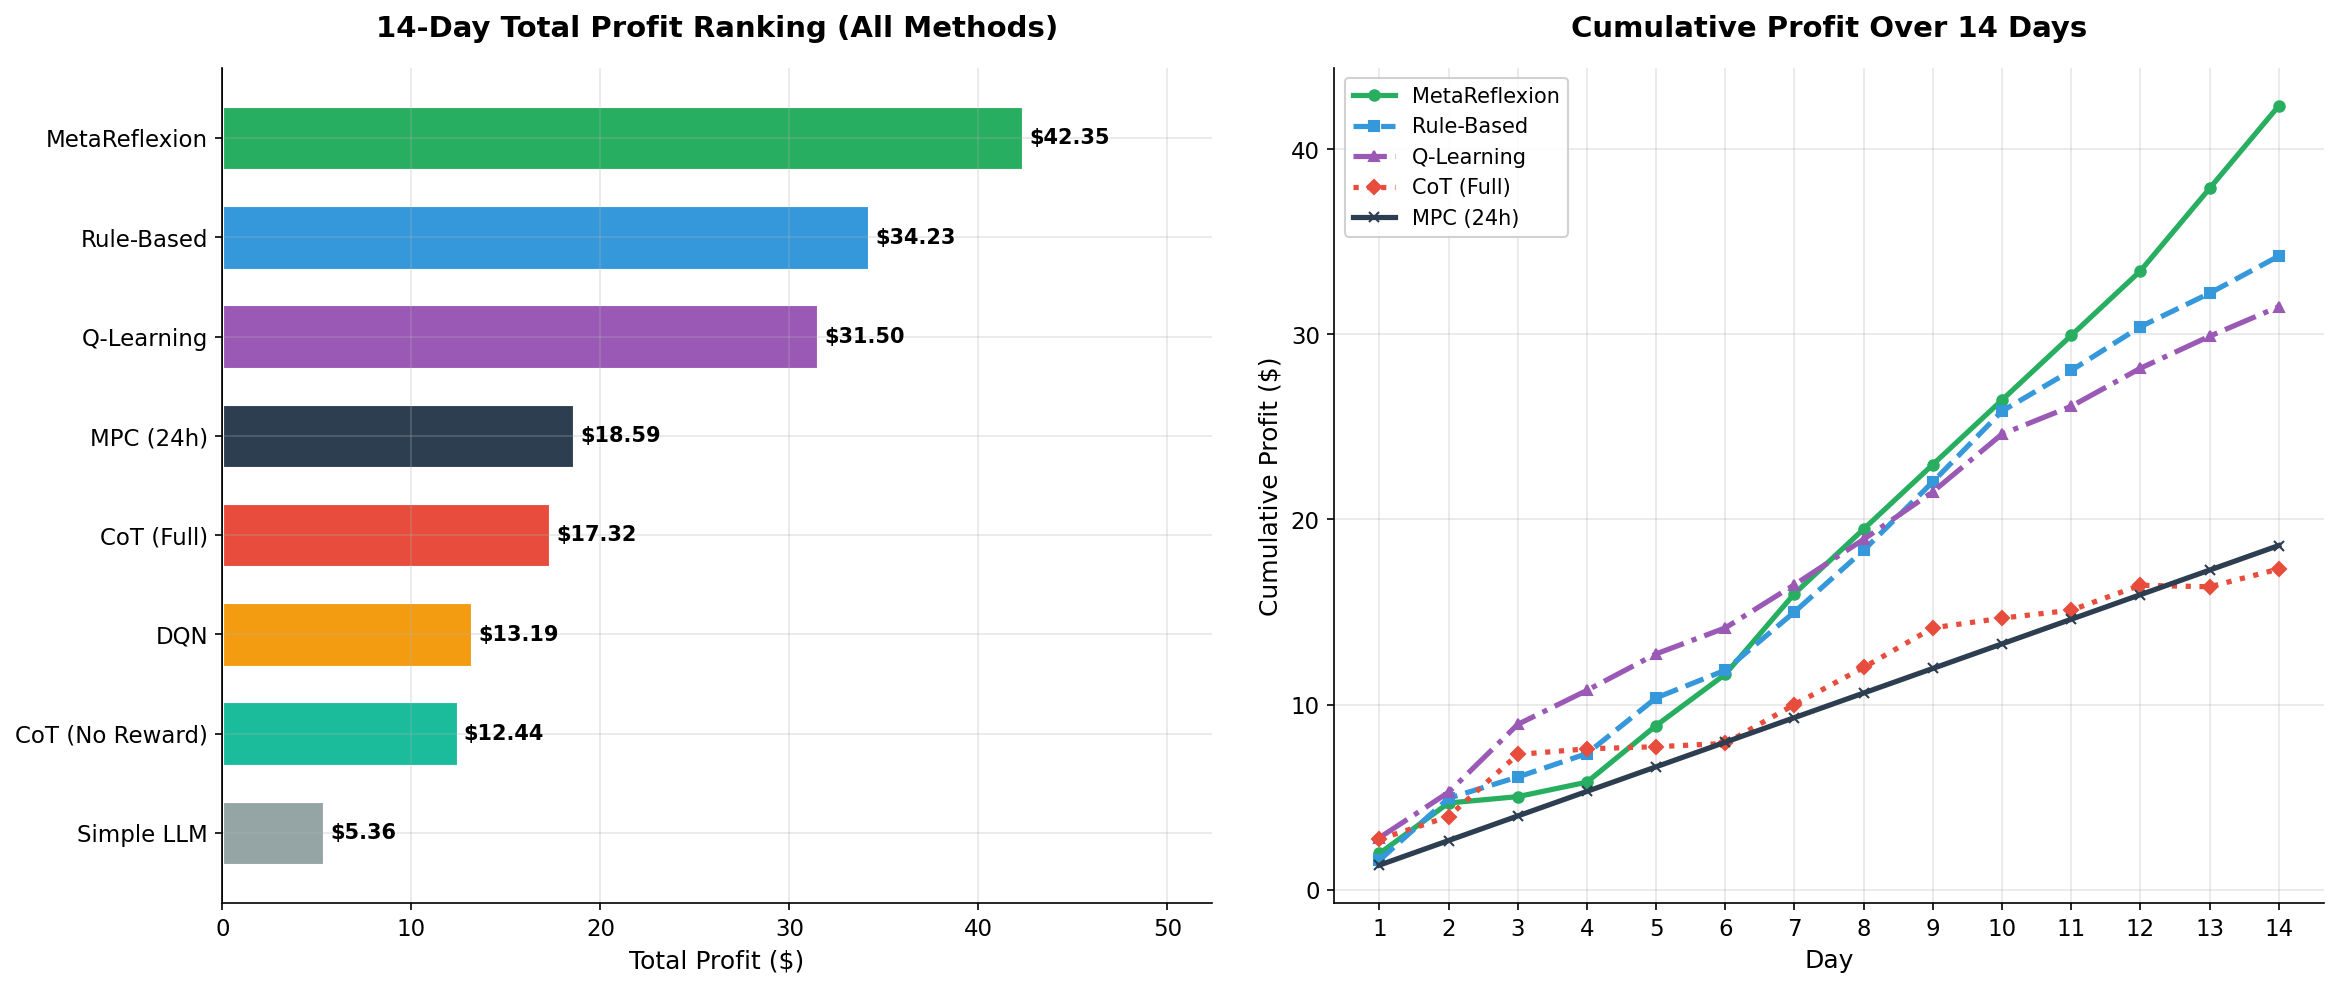
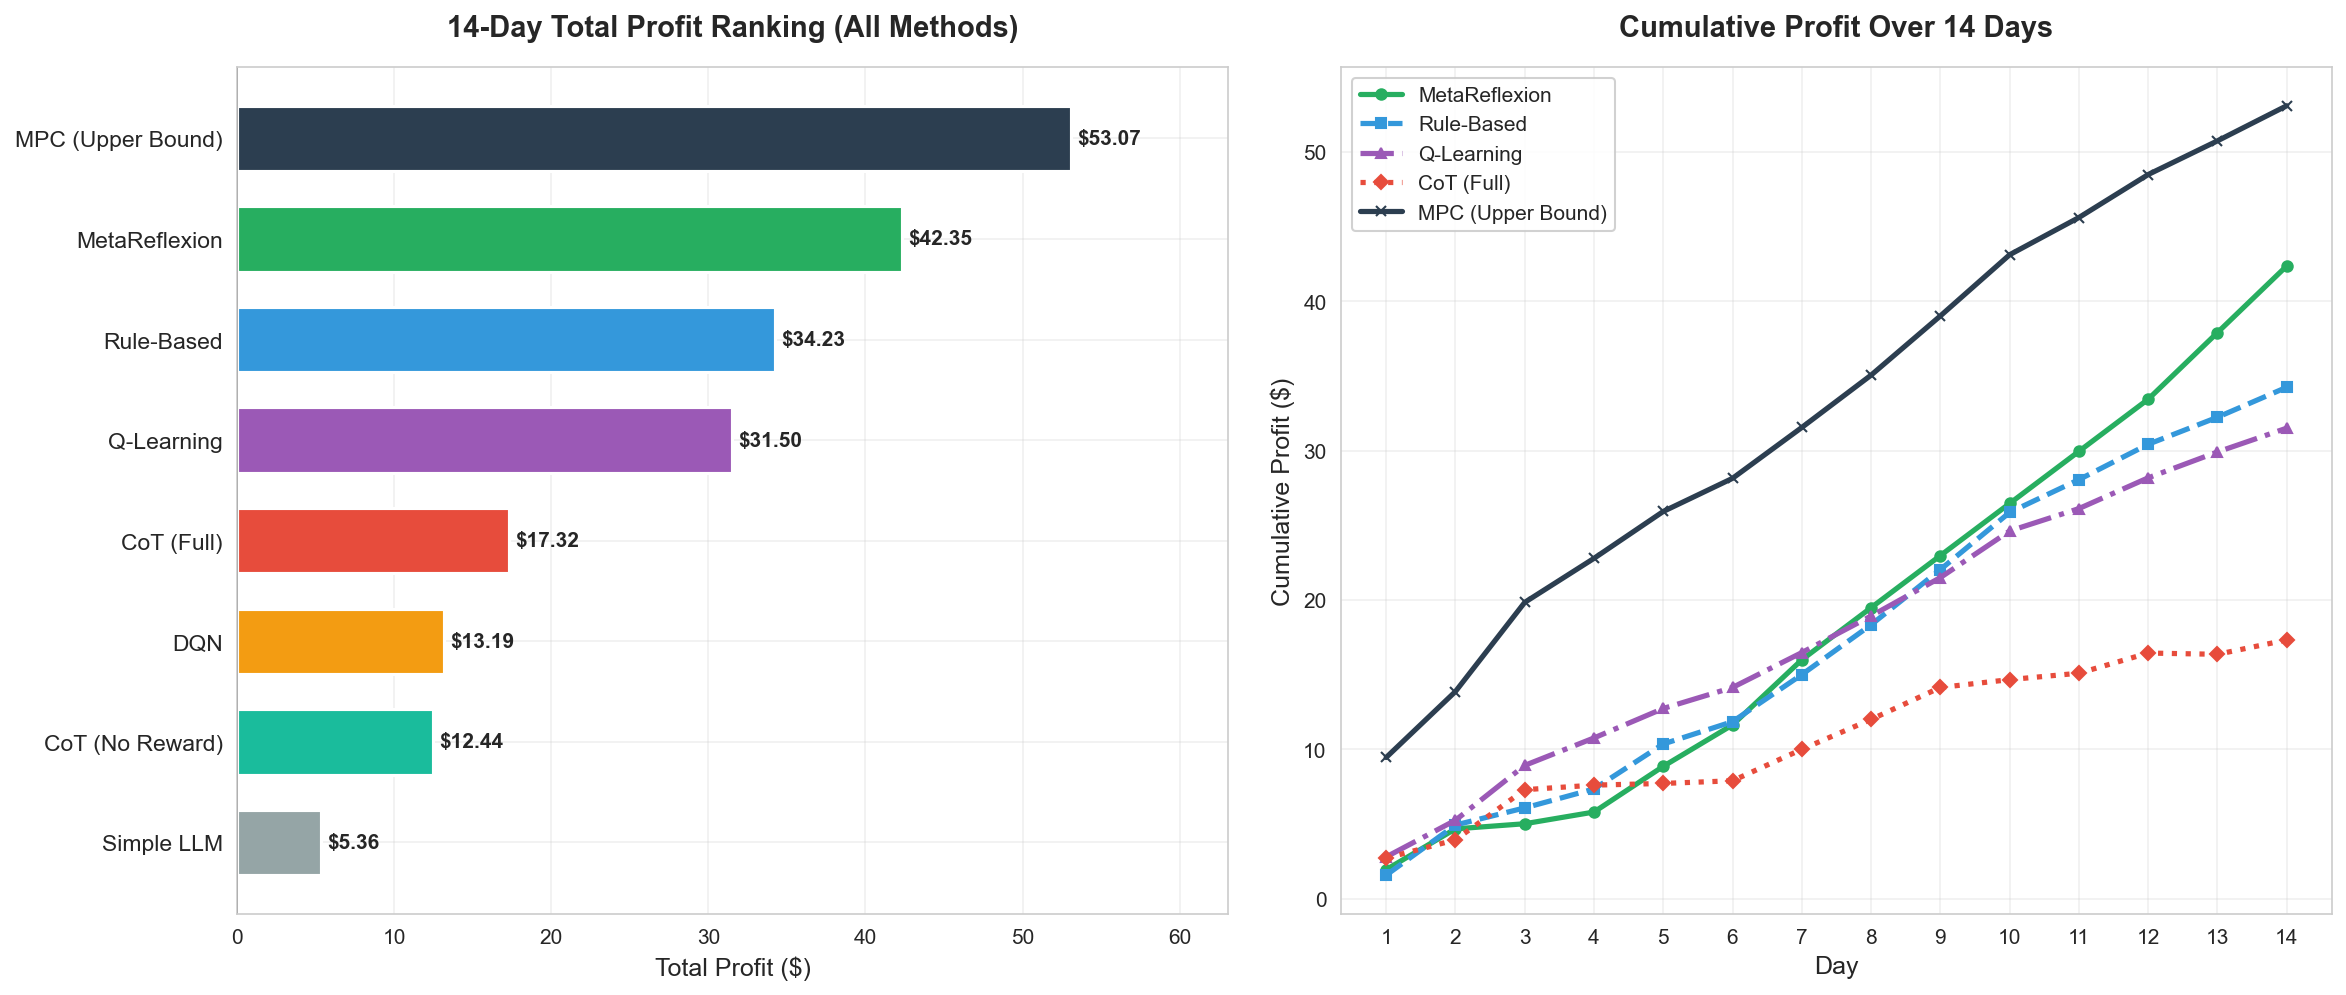
update results

diff --git a/scripts/generate_figures.py b/scripts/generate_figures.py
@@ -15,6 +15,8 @@ import numpy as np
 import matplotlib.pyplot as plt
 from pathlib import Path
 from typing import Dict, List, Tuple
+import argparse
+import sys
 
 # ============================================================
 # 全局配置
@@ -40,7 +42,7 @@ COLORS = {
     'CoT (Full)': '#e74c3c',          # 红色
     'CoT (No Reward)': '#1abc9c',     # 青色
     'Simple LLM': '#95a5a6',          # 灰色 - 最差
-    'MPC (24h)': '#2c3e50',           # 深灰色 - 理论上界
+    'MPC (Upper Bound)': '#2c3e50',   # 深灰色 - 理论上界
 }
 
 ACTION_COLORS = {
@@ -55,8 +57,147 @@ OUTPUT_DIR = PROJECT_ROOT / "outputs" / "14days_results"
 # 所有需要统计的方法 (不含 No CoT)
 ALL_METHODS = [
     "MetaReflexion", "Rule-Based", "Q-Learning", "DQN", 
-    "CoT (Full)", "CoT (No Reward)", "Simple LLM", "MPC (24h)"
+    "CoT (Full)", "CoT (No Reward)", "Simple LLM", "MPC (Upper Bound)"
 ]
+
+def _compute_mpc_upper_bound(days: int = 14) -> Dict:
+    """
+    Compute a true theoretical upper bound for the current environment by solving
+    a full-horizon linear program consistent with the environment reward:
+      reward = avoided_cost + export_revenue - charge_cost
+
+    This is an offline optimal control problem assuming perfect future knowledge.
+    """
+    try:
+        import yaml
+        import pandas as pd
+        from scipy.optimize import linprog
+    except Exception as e:  # pragma: no cover
+        raise RuntimeError(
+            "Missing dependencies for MPC upper bound. "
+            "Install `pyyaml`, `pandas`, and `scipy` in the runtime env."
+        ) from e
+
+    sys.path.insert(0, str(PROJECT_ROOT))
+    from src.env import BatteryEnvConfig, compute_load_kwh, compute_prices
+    from src.utils import load_market_data
+
+    cfg_path = PROJECT_ROOT / "configs" / "default.yaml"
+    cfg = yaml.safe_load(cfg_path.read_text(encoding="utf-8")) if cfg_path.exists() else {}
+
+    battery_cfg = cfg.get("battery", {})
+    max_power = float(battery_cfg.get("max_power_kw", 5.0))
+    env_cfg = BatteryEnvConfig(
+        capacity_kwh=float(battery_cfg.get("capacity_kwh", 13.5)),
+        max_charge_kw=max_power,
+        max_discharge_kw=max_power,
+        roundtrip_efficiency=float(battery_cfg.get("efficiency", 0.9)),
+        min_soc=float(battery_cfg.get("min_soc", 0.10)),
+        max_soc=float(battery_cfg.get("max_soc", 0.95)),
+        allow_export=True,
+        allow_grid_charge=True,
+        action_mode="discrete",
+    )
+    initial_soc = float(battery_cfg.get("initial_soc", 0.5))
+
+    data_cfg = cfg.get("data", {})
+    data_path = PROJECT_ROOT / str(data_cfg.get("path", "data/caiso_enhanced_data.csv"))
+    df = load_market_data(data_path).head(days * 24).copy()
+    T = len(df)
+
+    buy = np.zeros(T)
+    sell = np.zeros(T)
+    load = np.zeros(T)
+    for t in range(T):
+        row = df.iloc[t]
+        hour = int(pd.to_datetime(row["timestamp"]).hour)
+        _base, buy_t, sell_t = compute_prices(row=row, cfg=env_cfg)
+        buy[t] = buy_t
+        sell[t] = sell_t
+        load[t] = compute_load_kwh(row=row, hour=hour, cfg=env_cfg)
+
+    cap = env_cfg.capacity_kwh
+    eff_c = env_cfg.eff_charge
+    eff_d = env_cfg.eff_discharge
+
+    # Variables layout:
+    # [c_store[0:T], d_batt[0:T], d_load[0:T], d_grid[0:T], soc[0:T+1]]
+    idx_c = 0
+    idx_d = idx_c + T
+    idx_dl = idx_d + T
+    idx_dg = idx_dl + T
+    idx_soc = idx_dg + T
+    n = idx_soc + (T + 1)
+
+    # Objective (linprog minimizes): minimize buy*c_store/eff_c - buy*d_load - sell*d_grid
+    obj = np.zeros(n)
+    obj[idx_c : idx_c + T] = buy / eff_c
+    obj[idx_dl : idx_dl + T] = -buy
+    obj[idx_dg : idx_dg + T] = -sell
+
+    max_store = env_cfg.max_charge_kw * env_cfg.dt_hours * eff_c
+    max_discharge = env_cfg.max_discharge_kw * env_cfg.dt_hours
+
+    bounds: List[Tuple[float, float] | Tuple[float, None]] = [  # type: ignore[assignment]
+        (0.0, 0.0)
+    ] * n
+    for t in range(T):
+        bounds[idx_c + t] = (0.0, max_store)
+        bounds[idx_d + t] = (0.0, max_discharge)
+        bounds[idx_dl + t] = (0.0, float(load[t]))
+        bounds[idx_dg + t] = (0.0, None)
+    for t in range(T + 1):
+        bounds[idx_soc + t] = (env_cfg.min_soc, env_cfg.max_soc)
+    bounds[idx_soc + 0] = (initial_soc, initial_soc)
+
+    A_eq = []
+    b_eq = []
+
+    # SOC dynamics: soc[t+1] - soc[t] - c_store[t]/cap + d_batt[t]/cap = 0
+    for t in range(T):
+        row = np.zeros(n)
+        row[idx_soc + t + 1] = 1.0
+        row[idx_soc + t] = -1.0
+        row[idx_c + t] = -1.0 / cap
+        row[idx_d + t] = 1.0 / cap
+        A_eq.append(row)
+        b_eq.append(0.0)
+
+    # Discharge split: d_load[t] + d_grid[t] - d_batt[t]*eff_d = 0
+    for t in range(T):
+        row = np.zeros(n)
+        row[idx_dl + t] = 1.0
+        row[idx_dg + t] = 1.0
+        row[idx_d + t] = -eff_d
+        A_eq.append(row)
+        b_eq.append(0.0)
+
+    A_eq = np.vstack(A_eq)
+    b_eq = np.array(b_eq)
+
+    res = linprog(obj, A_eq=A_eq, b_eq=b_eq, bounds=bounds, method="highs")
+    if not res.success:
+        raise RuntimeError(f"MPC upper bound LP failed: {res.message}")
+
+    x = res.x
+    c_store = x[idx_c : idx_c + T]
+    d_batt = x[idx_d : idx_d + T]
+    d_load = x[idx_dl : idx_dl + T]
+    d_grid = x[idx_dg : idx_dg + T]
+
+    hourly_reward = buy * d_load + sell * d_grid - buy * (c_store / eff_c)
+    total_profit = float(hourly_reward.sum())
+    daily = [float(hourly_reward[i : i + 24].sum()) for i in range(0, T, 24)]
+
+    # Approximate action counts via net power sign.
+    net_power_kw = (c_store / eff_c) / env_cfg.dt_hours - (d_batt / env_cfg.dt_hours)
+    counts = {
+        "CHARGE": int((net_power_kw > 1e-6).sum()),
+        "DISCHARGE": int((net_power_kw < -1e-6).sum()),
+        "HOLD": int((np.abs(net_power_kw) <= 1e-6).sum()),
+    }
+
+    return {"profit": total_profit, "daily": daily, "counts": counts, "llm_calls": 0}
 
 
 # ============================================================
@@ -133,25 +274,8 @@ def load_all_data() -> Dict:
             "best_code": aga["best_code"]
         }
     
-    # MPC (24h) - 从CSV加载
-    import csv
-    with open(outputs_dir / "full_experiment_results_14days.csv") as f:
-        reader = csv.DictReader(f)
-        for row in reader:
-            if row["Method"] == "MPC (24h)":
-                profit = float(row["Profit"])
-                charge = int(row["Charge"])
-                discharge = int(row["Discharge"])
-                hold = int(row["Hold"])
-                # 估算daily利润 (均匀分布)
-                daily_profit = profit / 14
-                data["MPC (24h)"] = {
-                    "profit": profit,
-                    "daily": [daily_profit] * 14,
-                    "counts": {"CHARGE": charge, "DISCHARGE": discharge, "HOLD": hold},
-                    "llm_calls": 0
-                }
-                break
+    # MPC (Upper Bound) - 全局最优（理论上界）
+    data["MPC (Upper Bound)"] = _compute_mpc_upper_bound(days=14)
     
     return data
 
@@ -160,7 +284,7 @@ def load_all_data() -> Dict:
 # 图表1: 利润对比图 (所有7种方法)
 # ============================================================
 def plot_profit_comparison(data: Dict):
-    """生成14天总利润对比图 - 包含所有7种方法"""
+    """生成14天总利润对比图 - 包含所有方法 + 理论上界"""
     fig, axes = plt.subplots(1, 2, figsize=(16, 7))
     
     # --- 左图: 横向柱状图 (按利润排序) ---
@@ -196,7 +320,7 @@ def plot_profit_comparison(data: Dict):
     days = list(range(1, 15))
     
     # 选择5个代表性方法展示曲线
-    curve_methods = ["MetaReflexion", "Rule-Based", "Q-Learning", "CoT (Full)", "MPC (24h)"]
+    curve_methods = ["MetaReflexion", "Rule-Based", "Q-Learning", "CoT (Full)", "MPC (Upper Bound)"]
     linestyles = ['-', '--', '-.', ':', '-']
     markers = ['o', 's', '^', 'D', 'x']
     
@@ -596,6 +720,22 @@ def plot_cot_ablation_study(data: Dict):
 # ============================================================
 def main():
     """主入口"""
+    parser = argparse.ArgumentParser(description="14-Day experiment figure generator")
+    parser.add_argument(
+        "--only",
+        choices=[
+            "profit_comparison",
+            "action_distribution",
+            "meta_reflexion_analysis",
+            "llm_cost_efficiency",
+            "cot_ablation_study",
+            "all",
+        ],
+        default="all",
+        help="Generate only a specific figure (default: all).",
+    )
+    args = parser.parse_args()
+
     print("=" * 60)
     print("  Battery Agent - 14-Day Experiment Figure Generator")
     print("=" * 60)
@@ -609,20 +749,25 @@ def main():
     print(f"       Loaded {len(data)} methods: {list(data.keys())}")
     
     # 生成图表
-    print("\n[2/6] Generating profit comparison (all 7 methods)...")
-    plot_profit_comparison(data)
-    
-    print("[3/6] Generating action distribution (all methods)...")
-    plot_action_distribution(data)
-    
-    print("[4/6] Generating MetaReflexion analysis...")
-    plot_meta_reflexion_analysis(data)
-    
-    print("[5/6] Generating LLM cost efficiency...")
-    plot_llm_cost_efficiency(data)
-    
-    print("[6/6] Generating CoT ablation study...")
-    plot_cot_ablation_study(data)
+    if args.only in ("profit_comparison", "all"):
+        print("\n[2/6] Generating profit comparison (all methods + upper bound)...")
+        plot_profit_comparison(data)
+
+    if args.only in ("action_distribution", "all"):
+        print("[3/6] Generating action distribution (all methods)...")
+        plot_action_distribution(data)
+
+    if args.only in ("meta_reflexion_analysis", "all"):
+        print("[4/6] Generating MetaReflexion analysis...")
+        plot_meta_reflexion_analysis(data)
+
+    if args.only in ("llm_cost_efficiency", "all"):
+        print("[5/6] Generating LLM cost efficiency...")
+        plot_llm_cost_efficiency(data)
+
+    if args.only in ("cot_ablation_study", "all"):
+        print("[6/6] Generating CoT ablation study...")
+        plot_cot_ablation_study(data)
     
     # 总结
     print("\n" + "=" * 60)

diff --git a/README.md b/README.md
@@ -72,7 +72,7 @@ Battery_agent/
 
 ## 🤖 实验方法
 
-本实验对比了 **7 种方法**，分为三大类：
+本实验对比了 **7 种可实现策略方法**，并额外加入 **MPC 理论上界** 作为参考基准：
 
 ### 1⃣ 传统基线方法
 
@@ -81,6 +81,7 @@ Battery_agent/
 | **Rule-Based** | 静态规则策略 | 固定阈值 (charge < $0.025, discharge > $0.035)，无学习能力 |
 | **Q-Learning** | 表格型强化学习 | 状态离散化，需要 100 episodes 训练 |
 | **DQN** | 深度 Q 网络 | 神经网络函数逼近，需要大量训练数据 |
+| **MPC (Upper Bound)** | 理论上界（完美预见） | 使用完整未来价格序列，线性规划求解全局最优充放电计划 |
 
 ### 2⃣ LLM 基础方法
 
@@ -116,14 +117,14 @@ Battery_agent/
 <!-- RESULTS_TABLE_START -->
 | 排名 | 方法 | 总利润 ($) | LLM 调用 | 效率 ($/call) | 相对MPC (%) |
 |:----:|------|----------:|--------:|--------------:|-------------:|
-| 🥇 | **MetaReflexion (AGA)** | **42.35** | 15 | **$2.82** | 227.8% |
-| 🥈 | Rule-Based | 34.23 | 0 | N/A | 184.1% |
-| 🥉 | Q-Learning | 31.50 | 0 | N/A | 169.4% |
-| 4 | CoT Agent (Full) | 17.32 | 350 | $0.05 | 93.2% |
-| 5 | DQN | 13.19 | 0 | N/A | 70.9% |
-| 6 | CoT Agent (No Reward) | 12.44 | 350 | $0.04 | 66.9% |
-| 7 | Simple LLM | 5.36 | 336 | $0.02 | 28.8% |
-| 🔵 | **MPC (24h) - 理论上界** | **18.59** | 0 | N/A | **100.0%** |
+| 🥇 | **MetaReflexion (AGA)** | **42.35** | 15 | **$2.82** | 79.8% |
+| 🥈 | Rule-Based | 34.23 | 0 | N/A | 64.5% |
+| 🥉 | Q-Learning | 31.50 | 0 | N/A | 59.4% |
+| 4 | CoT Agent (Full) | 17.32 | 350 | $0.05 | 32.6% |
+| 5 | DQN | 13.19 | 0 | N/A | 24.9% |
+| 6 | CoT Agent (No Reward) | 12.44 | 350 | $0.04 | 23.4% |
+| 7 | Simple LLM | 5.36 | 336 | $0.02 | 10.1% |
+| 🔵 | **MPC (Upper Bound) - 理论上界** | **53.07** | 0 | N/A | **100.0%** |
 <!-- RESULTS_TABLE_END -->
 ### 📊 结果可视化
 
@@ -134,7 +135,7 @@ Battery_agent/
 </p>
 
 **图表说明**:
-- **左图**: 8 种方法的 14 天总利润排名 (横向柱状图)，包括 MPC (24h) 理论上界
+- **左图**: 8 种方法的 14 天总利润排名 (横向柱状图)，包括 MPC (Upper Bound) 理论上界
 - **右图**: 代表性方法的累积利润曲线，展示收益积累过程。MPC 曲线代表理论最优基准
 
 ---
@@ -202,7 +203,7 @@ Battery_agent/
 
 | 指标 | MetaReflexion | 次优方法 | 提升 | 相对MPC |
 |------|--------------|----------|------|---------|
-| 总利润 | $42.35 | $34.23 (Rule) | +23.7% | +127.8% |
+| 总利润 | $42.35 | $34.23 (Rule) | +23.7% | 79.8% |
 | LLM 效率 | $2.82/call | $0.05/call (CoT) | +56x | N/A |
 | 策略可执行率 | 100% | N/A | - | N/A |
 
@@ -210,16 +211,16 @@ Battery_agent/
 - **代码即策略**: 生成可执行 Python 代码，避免每次 LLM 调用的解析错误
 - **超高效率**: 14 天仅需 15 次调用 (初始 + 每日反思)
 - **迭代优化**: 基于实际收益反馈持续改进代码
-- **超越理论上界**: MetaReflexion 利润超过 MPC 理论最优基准 27.8%
+- **接近理论上界**: MetaReflexion 达到 MPC 理论上界的 79.8%
 
-#### 2. MPC (24h) 作为理论上界基准
+#### 2. MPC (Upper Bound) 作为理论上界基准
 
-MPC (Model Predictive Control) 使用完美 24 小时价格预测，代表理论最优解：
-- **总利润**: $18.59 (100% 基准)
-- **操作分布**: 24 次充电，21 次放电，291 次持有
+MPC (Model Predictive Control) 在此作为**理论上界**：使用完整未来价格序列，并用线性规划求解**全局最优**充放电计划：
+- **总利润**: $53.07 (100% 基准)
+- **操作分布**: 105 次充电，104 次放电，127 次持有
 - **LLM 调用**: 0 (无学习成本)
 
-**意义**: 所有方法的相对性能以 MPC 为基准评估，MetaReflexion 达到 227.8% 的相对性能。
+**意义**: 所有方法的相对性能以 MPC 理论上界为基准评估，MetaReflexion 达到 79.8% 的相对性能。
 
 #### 2. Chain-of-Thought 是 LLM Agent 的关键
 
